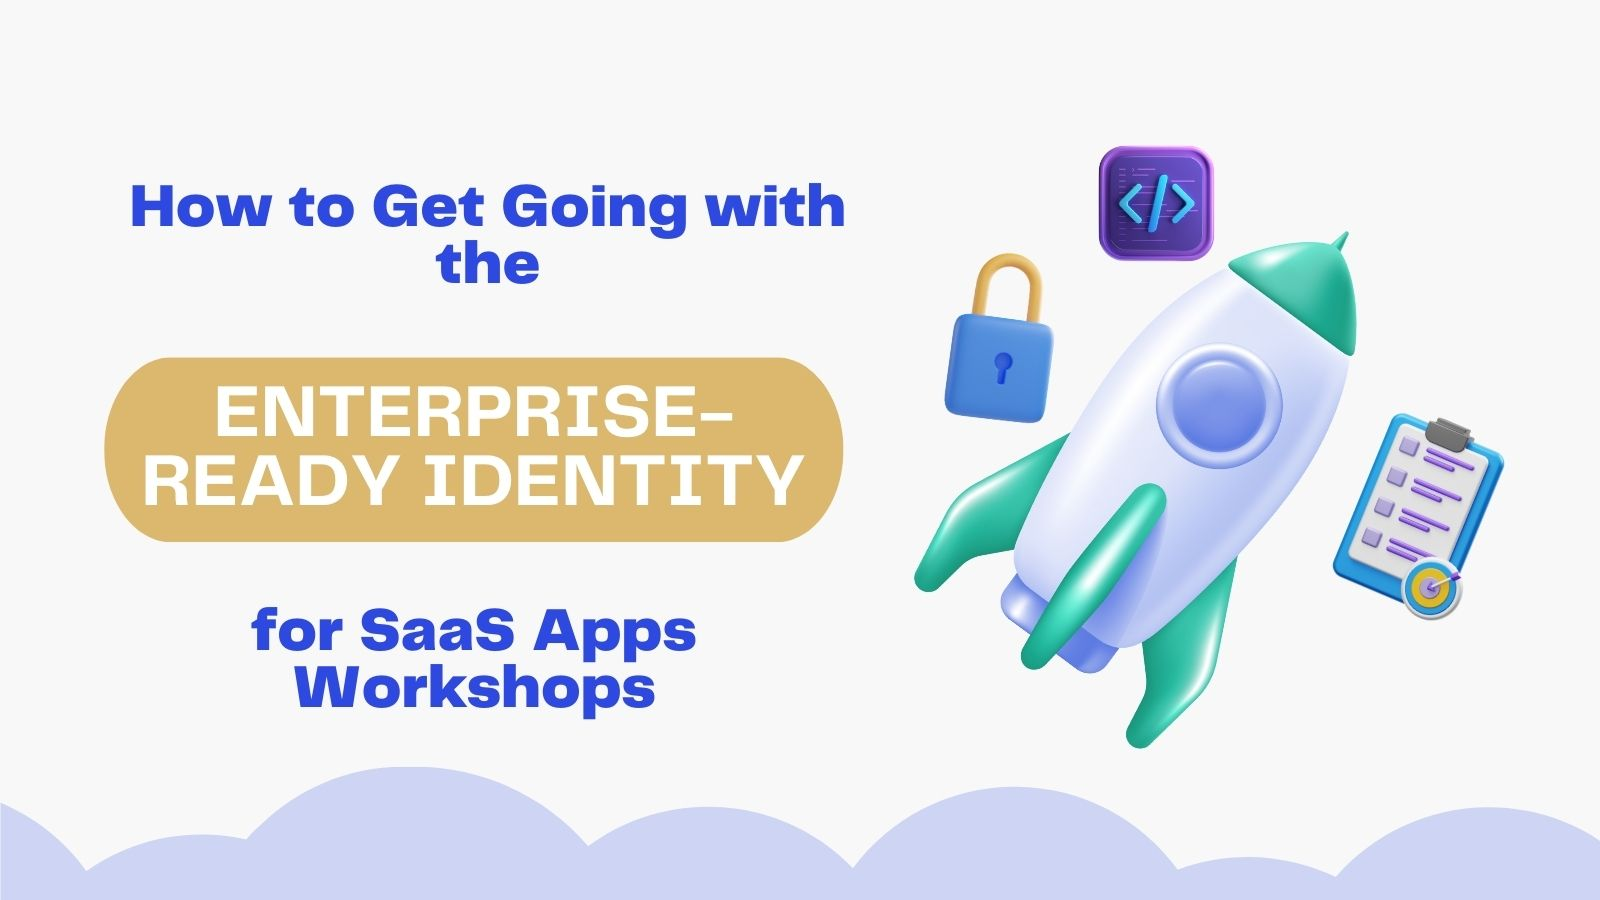
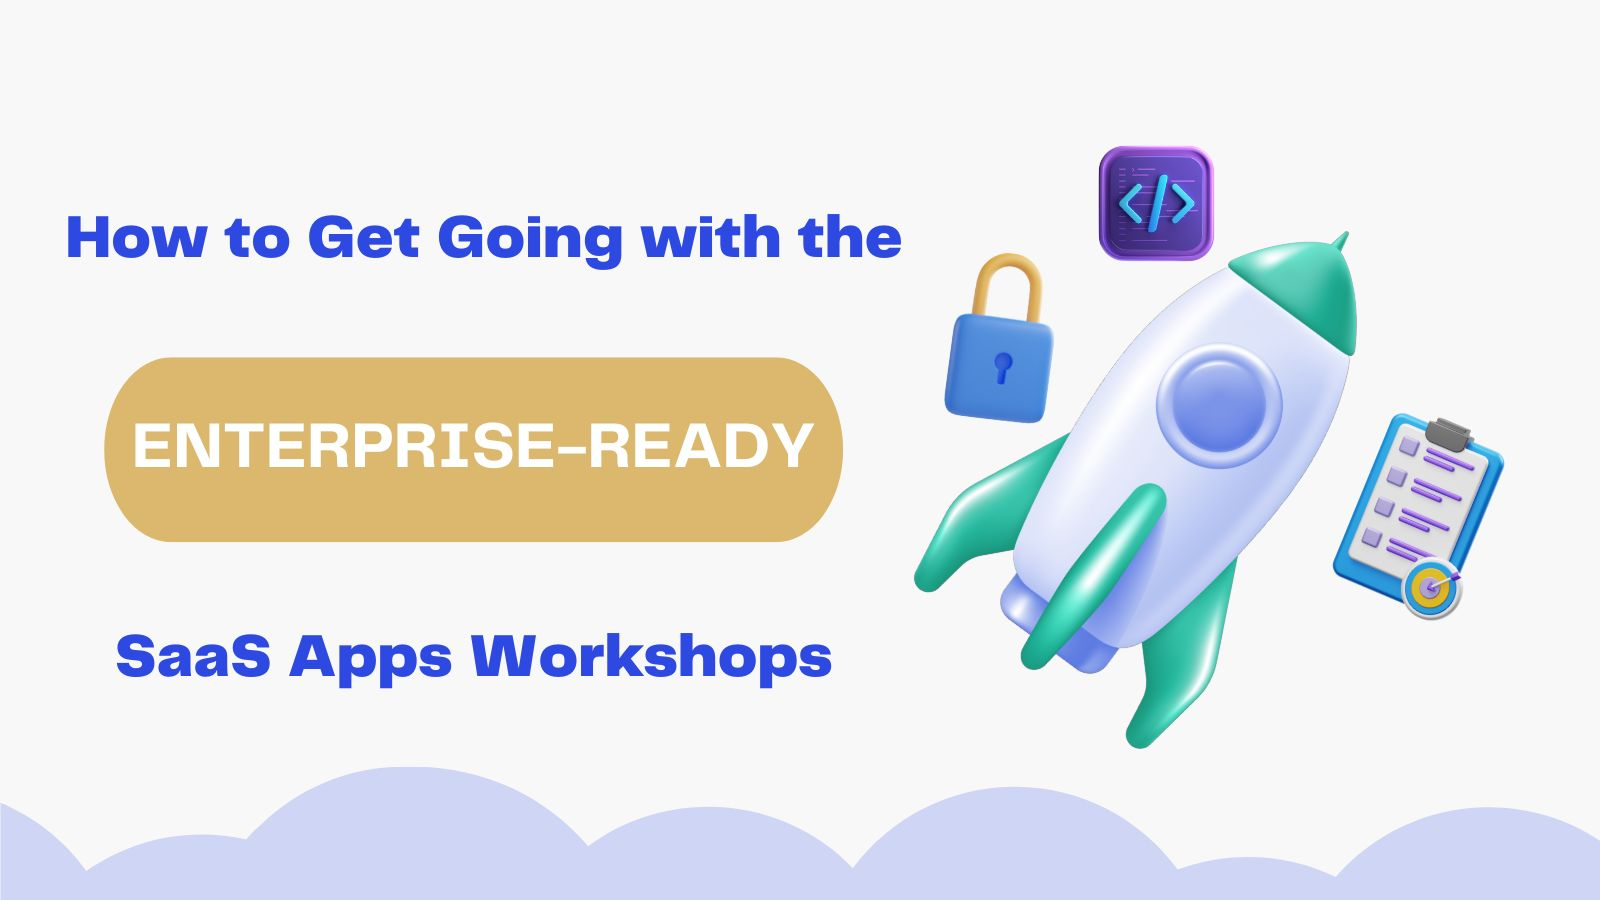
fix: change name and requested fixes

diff --git a/_source/_posts/2023-07-27-enterprise-ready-getting-started.md b/_source/_posts/2023-07-27-enterprise-ready-getting-started.md
@@ -1,6 +1,6 @@
 ---
 layout: blog_post
-title: "How to Get Going with the Enterprise-Ready Identity for SaaS Apps Workshops"
+title: "How to Get Going with the Enterprise-Ready SaaS Apps Workshops"
 author: alisa-duncan
 by: advocate
 communities: [devops,security,.net,java,javascript,php,python]
@@ -11,25 +11,22 @@ type: awareness
 github: https://github.com/oktadev/okta-enterprise-ready-workshops
 ---
 
-Having an enterprise-ready identity in your SaaS applications means your application supports authentication best practices, can scale across multiple customers and users, has automated means to re-create environments, and can securely add enhancements and value-adds your customers expect. Join us in this free virtual workshop series where we take your SaaS application on a journey of enterprise-ready identity.
+Having an enterprise-ready SaaS application means your application supports authentication best practices, can scale across multiple customers and users, has automated means to re-create environments, and can securely add enhancements and value-adds your customers expect. Join this free virtual workshop series where we take your SaaS application on a journey of enterprise-ready identity— you'll wear the hat of a SaaS developer preparing your Todo application to support enterprise-level customers who want to use your Todo app within their organizations.
 
-|Posts in the enterprise-ready workshop series|
-| --- |
-| 1. **How to get Going with the Enterprise-Ready Identity for SaaS Apps Workshops** |
-| 2. [Enterprise-Ready Workshop: Authenticate with OpenID Connect](/blog/2023/07/28/oidc_workshop) |
-| 3. [Enterprise-Ready Workshop: Manage Users with SCIM](/blog/2023/07/28/scim-workshop) |
-| 4. [Enterprise-Ready Workshop: Terraform](/blog/2023/07/28/terraform-workshop) |
+In this post you'll install the necessary tools to build and run the Todo application locally.
 
 ## Build enterprise-ready SaaS apps with help from these Okta workshops 
 
-The base application is a minimal "to-do list" built as a B2C application. Four workshops take this base application and enhance it for your enterprise customers:
-
-1. **Onboarding your customers with OIDC** - Enable your customers to bring their own [OpenID Connect (OIDC)](https://openid.net/developers/how-connect-works/) server to sign in to your applicatio using an industry-standard authentication mechanism.
-2. **Sync all your customer's users with SCIM** - Give your app the complete picture of your customer's user base using [System for Cross-domain Identity Management (SCIM)](https://scim.cloud/).
-3. **Add automated reporting with no-code Okta Workflows** - Enable your customers to automate actions within your app using a low/no-code configuration mechanism.
-4. **Automate Okta management with Terraform** - Automate environment creation and ensure consistency in managing your Okta organization using Terraform.
+The base application is a minimal "to-do list" built as a B2C application. You'll see workshops to add multi-tenancy with the ability for customers to bring their own Identity Provider to authenticate their workforce, sync customer's users automatically into the Todo app, adding reporting capabilities, and automate environment creation.
 
 You can pick which workshop to participate in and the order in which you participate. Choose the workshops that best address your next most pressing need.
+
+|Posts in the enterprise-ready workshop series|
+| --- |
+| 1. **How to Get Going with the Enterprise-Ready SaaS Apps Workshops** |
+| 2. [Enterprise-Ready Workshop: Authenticate with OpenID Connect](/blog/2023/07/28/oidc_workshop) |
+| 3. [Enterprise-Ready Workshop: Manage Users with SCIM](/blog/2023/07/28/scim-workshop) |
+| 4. [Enterprise-Ready Workshop: Terraform](/blog/2023/07/28/terraform-workshop) |
 
 > We want to ensure you can follow the workshops and focus on understanding how to enhance the application for enterprise use cases, so don't use this base application as a template expecting a production-quality B2C or B2B application - it has some obvious intentional security shortcomings!
 
@@ -37,13 +34,13 @@ You can pick which workshop to participate in and the order in which you partici
 
 ## Build an enterprise-ready SaaS application using ReactJS, Express APIs, and Prisma
 
-While SaaS applications run a range of tech stacks, we'll focus on a SPA frontend with an API backend for this workshop series.
+While SaaS applications run a range of tech stacks, we'll focus on a React frontend with an API backend for this workshop series.
 
 This application uses [React](https://react.dev/) for the frontend application and [Express](https://expressjs.com/) to build the API backend in [TypeScript](https://www.typescriptlang.org/). We'll need persistent storage, so you'll use [SQLite](https://www.sqlite.org/index.html) for a local database. To make inspecting and changing the database more effortless, you'll use an ORM that comes with a database visualization tool: [Prisma](https://www.prisma.io/). The entire project is in a [Nx workspace](https://nx.dev/) so you can manage the whole application with one set of dependency instructions and scripts to serve the app.
 
 Do you want to see your framework of choice in a workshop? Let us know your preferred tech stack for an enterprise-ready SaaS application in the comments below!
 
-## Install NodeJS and required tools
+## Install Node.js and required tools
 
 Each tech stack has the required tooling to install on your machine. Depending on the specific workshop you're participating in, you may need some knowledge of JavaScript, REST concepts, and command line operations in addition to the installed tools.
 
@@ -53,9 +50,9 @@ There's a [companion video for this post](https://youtu.be/FCSNMtLtwRg) that sho
 
 {% youtube FCSNMtLtwRg %}
 
-### Install NodeJS, npm, and npx
+### Install Node, npm, and npx
 
-You'll need [Node](https://nodejs.org/en) v18. When you install Node, you'll automatically get npm, a command line tool to install, update, and manage dependencies. npm includes a command called npx, allowing you to run a npm package without installing it locally.
+You'll need [Node.js](https://nodejs.org/en) v18+. When you install Node.js, you'll automatically get npm, a command line tool to install, update, and manage dependencies. npm includes a command called npx, allowing you to run a npm package without installing it locally.
 
 The application was built using Node v18.14.0, npm v9.3.1.
 
@@ -63,7 +60,7 @@ The application was built using Node v18.14.0, npm v9.3.1.
 
 You can find the source code for the project on [GitHub](https://github.com/). If you want to use source control for your work as you participate in the workshops, you may want to use [Git](https://git-scm.com/) and create a GitHub account. If you do not want to use Git, you can also download the source code from GitHub as a zip file.
 
-### Code editor/Integrated development environment
+### Code editor/Integrated development environment (IDE)
 
 You will also need a code editor or IDE to make changes to the application. Feel free to use your favorite IDE. It may be helpful for your IDE to have built-in terminal access as there may be command-line operations to run in the workshops.
 
@@ -79,7 +76,7 @@ To clone the repo, run
 git clone https://github.com/oktadev/okta-enterprise-ready-workshops.git
 ```
 
-Once you have a local copy of the code, navigate into the project directory and install the required dependencies by running the commands shown below:
+Once you have a local copy of the code, navigate into the project directory. The project directory is `okta-enterprise-ready-workshops` if you cloned the repository, or `okta-enterprise-ready-workshops-main` if you download a zip file of the repository. Install the required dependencies by running the commands shown below in your terminal:
 
 ```bash
 cd okta-enterprise-ready-workshops
@@ -88,7 +85,7 @@ npm ci
 
 The command `npm ci` install the dependencies listed in the `package.json` and uses the versions specified in the `package-lock.json`.
 
-Next, seed the database with two users. Run the script below, and you'll see the users and their passwords written to the command line:
+Next, seed the database with two users. Run the script below, and you'll see the users and their passwords written to the command line after the script completes:
 
 ```bash
 npm run init-db
@@ -144,7 +141,7 @@ Now that you can run the application locally, you're ready to start on a worksho
 
 |Posts in the enterprise-ready workshop series|
 | --- |
-| 1. **How to get Going with the Enterprise-Ready Identity for SaaS Apps Workshops** |
+| 1. **How to Get Going with the Enterprise-Ready SaaS Apps Workshops** |
 | 2. [Enterprise-Ready Workshop: Authenticate with OpenID Connect](/blog/2023/07/28/oidc_workshop) |
 | 3. [Enterprise-Ready Workshop: Manage Users with SCIM](/blog/2023/07/28/scim-workshop) |
 | 4. [Enterprise-Ready Workshop: Terraform](/blog/2023/07/28/terraform-workshop) |

diff --git a/_source/_posts/2023-07-28-scim-workshop.md b/_source/_posts/2023-07-28-scim-workshop.md
@@ -21,7 +21,7 @@ Hello SaaS developers! You sell your software to technologically mature enterpri
 
 |Posts in the enterprise-ready workshop series|
 | --- |
-| 1. [How to get Going with the Enterprise-Ready Identity for SaaS Apps Workshops](/blog/2023/07/27/enterprise-ready-getting-started) |
+| 1. [How to Get Going with the Enterprise-Ready SaaS Apps Workshops](/blog/2023/07/27/enterprise-ready-getting-started) |
 | 2. [Enterprise-Ready Workshop: Authenticate with OpenID Connect](/blog/2023/07/28/oidc_workshop) |
 | 3. **Enterprise-Ready Workshop: Manage Users with SCIM** |
 | 4. [Enterprise-Ready Workshop: Terraform](/blog/2023/07/28/terraform-workshop) |
@@ -1321,7 +1321,7 @@ If you have followed along with the workshops so far, you now have a Todo applic
 
 |Posts in the enterprise-ready workshop series|
 | --- |
-| 1. [How to get Going with the Enterprise-Ready Identity for SaaS Apps Workshops](/blog/2023/07/27/enterprise-ready-getting-started) |
+| 1. [How to Get Going with the Enterprise-Ready SaaS Apps Workshops](/blog/2023/07/27/enterprise-ready-getting-started) |
 | 2. [Enterprise-Ready Workshop: Authenticate with OpenID Connect](/blog/2023/07/28/oidc_workshop) |
 | 3. **Enterprise-Ready Workshop: Manage Users with SCIM** |
 | 4. [Enterprise-Ready Workshop: Terraform](/blog/2023/07/28/terraform-workshop) |

diff --git a/_source/_posts/2023-07-28-oidc_workshop.md b/_source/_posts/2023-07-28-oidc_workshop.md
@@ -19,7 +19,7 @@ In this workshop, you will be wearing the hat of a SaaS developer who will up-le
 
 |Posts in the enterprise-ready workshop series|
 | --- |
-| 1. [How to get Going with the Enterprise-Ready Identity for SaaS Apps Workshops](/blog/2023/07/27/enterprise-ready-getting-started) |
+| 1. [How to Get Going with the Enterprise-Ready SaaS Apps Workshops](/blog/2023/07/27/enterprise-ready-getting-started) |
 | 2. **Enterprise-Ready Workshop: Authenticate with OpenID Connect** |
 | 3. [Enterprise-Ready Workshop: Manage Users with SCIM](/blog/2023/07/28/scim-workshop) |
 | 4. [Enterprise-Ready Workshop: Terraform](/blog/2023/07/28/terraform-workshop) |
@@ -549,7 +549,7 @@ To set up users and groups in your Okta Developer Account, try our Terraform wor
 
 |Posts in the enterprise-ready workshop series|
 | --- |
-| 1. [How to get Going with the Enterprise-Ready Identity for SaaS Apps Workshops](/blog/2023/07/27/enterprise-ready-getting-started) |
+| 1. [How to Get Going with the Enterprise-Ready SaaS Apps Workshops](/blog/2023/07/27/enterprise-ready-getting-started) |
 | 2. **Enterprise-Ready Workshop: Authenticate with OpenID Connect** |
 | 3. [Enterprise-Ready Workshop: Manage Users with SCIM](/blog/2023/07/28/scim-workshop) |
 | 4. [Enterprise-Ready Workshop: Terraform](/blog/2023/07/28/terraform-workshop) |

diff --git a/_source/_posts/2023-07-28-terraform-workshop.md b/_source/_posts/2023-07-28-terraform-workshop.md
@@ -16,7 +16,7 @@ This workshop is part of our Enterprise-Ready Workshop series. Follow along to g
 
 |Posts in the enterprise-ready workshop series|
 | --- |
-| 1. [How to get Going with the Enterprise-Ready Identity for SaaS Apps Workshops](/blog/2023/07/27/enterprise-ready-getting-started) |
+| 1. [How to Get Going with the Enterprise-Ready SaaS Apps Workshops](/blog/2023/07/27/enterprise-ready-getting-started) |
 | 2. [Enterprise-Ready Workshop: Authenticate with OpenID Connect](/blog/2023/07/28/oidc_workshop) |
 | 3. [Enterprise-Ready Workshop: Manage Users with SCIM](/blog/2023/07/28/scim-workshop) |
 | 4. **Enterprise-Ready Workshop: Terraform** |
@@ -663,7 +663,7 @@ Check out the other workshops in the enterprise-ready series if you haven't alre
 
 |Posts in the enterprise-ready workshop series|
 | --- |
-| 1. [How to get Going with the Enterprise-Ready Identity for SaaS Apps Workshops](/blog/2023/07/27/enterprise-ready-getting-started) |
+| 1. [How to Get Going with the Enterprise-Ready SaaS Apps Workshops](/blog/2023/07/27/enterprise-ready-getting-started) |
 | 2. [Enterprise-Ready Workshop: Authenticate with OpenID Connect](/blog/2023/07/28/oidc_workshop) |
 | 3. [Enterprise-Ready Workshop: Manage Users with SCIM](/blog/2023/07/28/scim-workshop) |
 | 4. **Enterprise-Ready Workshop: Terraform** |
